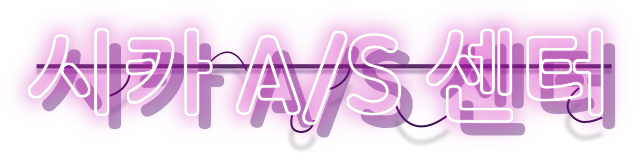
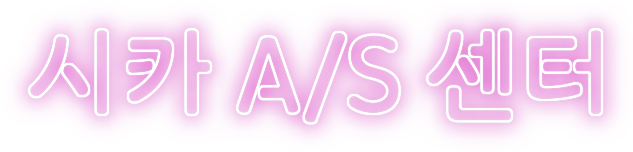
1111

Changed region(s): [[0.03, 0.2632, 0.9905, 0.9737], [0.9005, 0.8421, 0.9605, 0.9211]]

diff --git a/css/style.css b/css/style.css
@@ -137,8 +137,10 @@ html, body {
 }
 .content.main .content-wrap .inner .desc-area .neon-on-title {
 	position: absolute;
-	top: 116px;
-	left: 44px;
+	/* top: 116px;
+	left: 44px; */
+	top: 92px;
+	left: 20px;
 }
 .content.main .content-wrap .inner .desc-area .desc1 {
 	display: block;
@@ -837,10 +839,10 @@ html, body {
 .content.info .content-wrap .inner {
 	position: relative;
 	width: 1000px;
-	height: 752px;
+	/* height: 752px; */
 	margin: 0 auto;
 	text-align: center;
-	padding-bottom: 33px;
+	padding-bottom: 103px;
 }
 .content.info .content-wrap .inner .sub-title {
 	font-family: 'Noto Sans Korean';
@@ -852,8 +854,8 @@ html, body {
 }
 .content.info .content-wrap .inner .neon-on-title {
 	position: absolute;
-	top: 53px;
-	left: 252px;
+	top: 69px;
+	left: 256px;
 }
 .content.info .content-wrap .inner .desc-title {
 	font-family: 'Noto Sans Korean';

diff --git a/index.php b/index.php
@@ -73,19 +73,19 @@ include_once "head.php";
 	</div>
 	<script>
 		$(window).on('load', function() {
-			// var tl = new TimelineMax();
-			// var tl2 = new TimelineMax();
-			// // tl.to($(".neon-on-title"), 5, {autoAlpha:1, repeat:1, yoyo:true, ease: Linear.easeNone}, 0);
-			// // tl.play();
-			// tl.to($(".neon-on-title"), 0.3, {alpha:0, repeatDelay:0.3, repeat:-1, yoyo:true})
+			var tl = new TimelineMax();
+			var tl2 = new TimelineMax();
+			// tl.to($(".neon-on-title"), 5, {autoAlpha:1, repeat:1, yoyo:true, ease: Linear.easeNone}, 0);
 			// tl.play();
+			tl.to($(".neon-on-title"), 0.3, {alpha:0, repeatDelay:0.3, repeat:-1, yoyo:true})
+			tl.play();
 
 			setTimeout(function(){
 				tl2.to($(".goods-area"), 1, {alpha:1})
 				tl2.play();
 			},1500);
 
-			//		getNoticeInfo('0');
+					// getNoticeInfo('0');
 		});
 		//		var $noticeWrap = $('.notice-wrap .inner');
 		//		var $noticeSpan = $('.notice-wrap span');

diff --git a/info.php b/info.php
@@ -55,6 +55,9 @@
                             <button type="button">포마드로 A/S 경험하기</button>
                         </a>
                     </div>
+                    <div>
+                        <img src="./images/info_product.png" alt="">
+                    </div>
 <?
     // include_once "share_area.php";
 ?>                    
